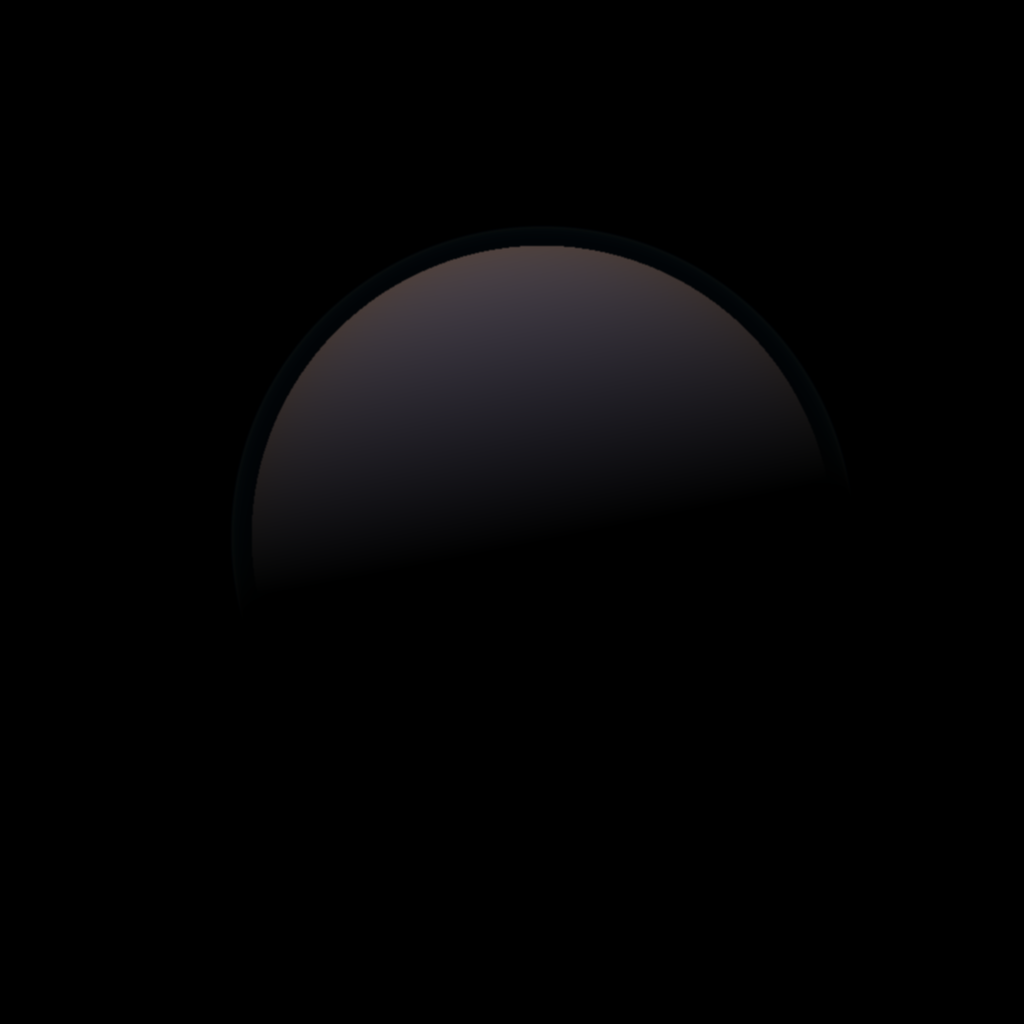
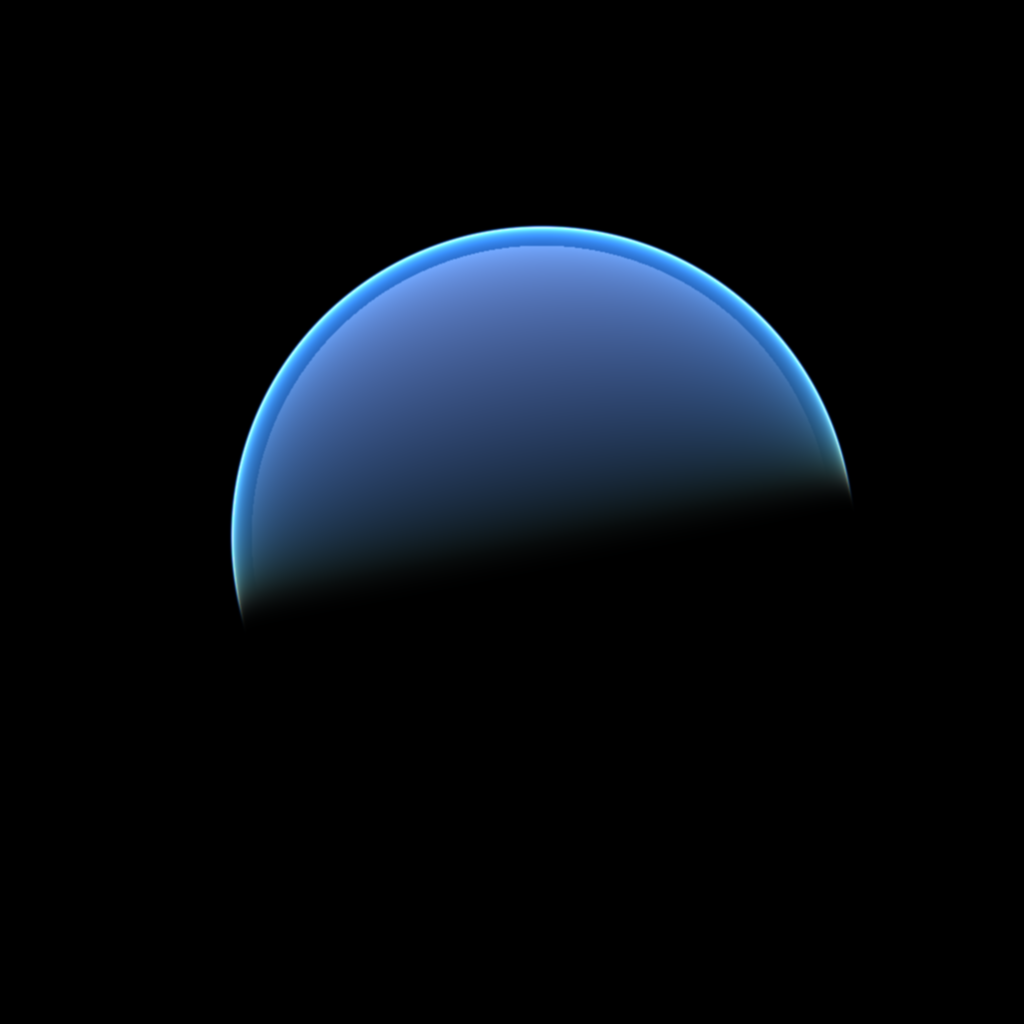
Add Mie scattering

Changed region(s): [[0.2188, 0.2188, 0.8438, 0.5938]]

diff --git a/atmos.py b/atmos.py
@@ -3,17 +3,18 @@ import math
 import numpy as np
 import taichi as ti
 from pathlib import Path
+
 vec3 = ti.math.vec3
 dot = ti.Vector.dot
 
-#region CONSTANTS
+# region CONSTANTS
 # feel free to change these (reasonable precision with citations might get you points!)
-VIEW_RAY_STEPS = 16
-SUN_RAY_STEPS = 4
+VIEW_RAY_STEPS = 128
+SUN_RAY_STEPS = 32
 
-EARTH_RADIUS_KM = 6000.0 # if you modify this make sure to update line 38 of demo.py
+EARTH_RADIUS_KM = 6000.0  # if you modify this make sure to update line 38 of demo.py
 
-# Source: WGS84
+# Source: WGS84 World Geodetic System Standard
 EARTH_EQUATORIAL_RADIUS_KM = 6378.137
 EARTH_POLAR_RADIUS_KM = 6356.752314245
 
@@ -22,17 +23,26 @@ EARTH_FLATTENING_FACTOR = (EARTH_EQUATORIAL_RADIUS_KM - EARTH_POLAR_RADIUS_KM) /
 # Source: NASA Earth Fact Sheet
 EARTH_SCALE_HEIGHT_KM = 8.5
 
-ATMOSPHERE_THICKNESS_KM = 110 # The true atmosphere extends quite far, so we choose a point where it visually seems to end
+ATMOSPHERE_THICKNESS_KM = 110  # The true atmosphere extends quite far, so we choose a point where it visually seems to end
 ATMOSPHERE_EQUATORIAL_RADIUS_KM = EARTH_EQUATORIAL_RADIUS_KM + ATMOSPHERE_THICKNESS_KM
 ATMOSPHERE_POLAR_RADIUS_KM = EARTH_POLAR_RADIUS_KM + ATMOSPHERE_THICKNESS_KM
 # ^ this atmosphere is actually very innacurate, but sometimes it's instructive to have it be big to see what's going on
 # be careful though, sometimes having a thick atmosphere leads to unintended consequences
 
 # Source: Precomputed Atmospheric Scattering - Eric Bruneton, Fabrice Neyret
-BETA_RAYLEIGH = vec3(3.8e-3, 13.5e-3, 33.1e-3)
-#endregion
+BETA_RAYLEIGH = vec3(5.8e-3, 13.5e-3, 33.1e-3)
+BETA_MIE_SCATTER = vec3(2.0e-3)
+BETA_MIE_EXTINCTION = BETA_MIE_SCATTER / 0.9
+MIE_SCALE_HEIGHT_KM = 1.2
+MIE_G = 0.8
 
-#region HELPER FUNCTIONS
+SUN_INTENSITY = vec3(1.474, 1.850, 1.912)
+# Scale up to simulate exposure
+SUN_INTENSITY = SUN_INTENSITY * 14.0
+
+# endregion
+
+# region HELPER FUNCTIONS
 
 # This function transforms the ray into a coordinate space where the z axis is scaled by width/height
 @ti.func
@@ -41,6 +51,7 @@ def _convert_ray_to_sphere_space(origin: vec3, direction: vec3, width: ti.f32, h
     sphere_origin = vec3(origin.x, origin.y, origin.z * w_over_h)
     sphere_dir = vec3(direction.x, direction.y, direction.z * w_over_h)
     return sphere_origin, sphere_dir.normalized()
+
 
 # This function transforms a point into a coordinate space where the z axis is scaled by height/width
 @ti.func
@@ -85,7 +96,7 @@ def cast_ray_against_oblate_spheroid(origin: vec3, direction: vec3, width: ti.f3
             collides_second = True
 
     return first_pos, collides_first, second_pos, collides_second
-#endregion
+# endregion
 
 # notice every function needs @ti.func so it can run in the kernel
 @ti.func
@@ -100,20 +111,40 @@ def funnyFunction(pos, ray, sun_dir):
         funGradient = (ray-vec3(0.5,0,0))*0.5+vec3(0.5,0.5,0.5)
     return funGradient
 
+@ti.func
+def earth_radius_at_direction(d):
+    a = EARTH_EQUATORIAL_RADIUS_KM
+    b = EARTH_POLAR_RADIUS_KM
 
+    return 1.0 / ti.sqrt(
+        (d.x * d.x + d.y * d.y) / (a * a)
+        + (d.z * d.z) / (b * b)
+    )
+
+# Algorithm based highly on Precomputed Atmospheric Scattering - Eric Bruneton, Fabrice Neyret
 @ti.func
 def _atmos(pos, ray, sun_dir):
     # Find rays intersections w/ atmosphere and Earth
-    p_atmos_1, hit_a1, p_atmos_2, hit_a2 = cast_ray_against_oblate_spheroid(pos, ray, ATMOSPHERE_EQUATORIAL_RADIUS_KM, ATMOSPHERE_POLAR_RADIUS_KM)
-    p_earth_1, hit_e1, p_earth_2, hit_e2 = cast_ray_against_oblate_spheroid(pos, ray, EARTH_EQUATORIAL_RADIUS_KM, EARTH_POLAR_RADIUS_KM)
+    p_atmos_1, hit_a1, p_atmos_2, hit_a2 = cast_ray_against_oblate_spheroid(pos, ray, ATMOSPHERE_EQUATORIAL_RADIUS_KM,
+                                                                            ATMOSPHERE_POLAR_RADIUS_KM)
+    p_earth_1, hit_e1, p_earth_2, hit_e2 = cast_ray_against_oblate_spheroid(pos, ray, EARTH_EQUATORIAL_RADIUS_KM,
+                                                                            EARTH_POLAR_RADIUS_KM)
 
-    total_color = vec3(0.0)
-
+    # Pre-Computed Atmospheric Scattering: Eq 2 - Rayleigh Phase Function
     cos_theta = ray.dot(sun_dir)
     phase_rayleigh = 3.0 / (16.0 * ti.math.pi) * (1.0 + cos_theta * cos_theta)
 
-    # Accumulates optical depth with each step along ray
-    view_optical_depth = 0.0
+    # Pre-Computed Atmospheric Scattering: Eq 4 - Cornette-Shanks Mie Phase Function
+    g2 = MIE_G * MIE_G
+    mie_num = 3.0 * (1.0 - g2) * (1.0 + cos_theta * cos_theta)
+    mie_den = 8.0 * ti.math.pi * (2.0 + g2) * ti.math.pow(1.0 + g2 - 2.0 * MIE_G * cos_theta, 1.5)
+    phase_mie = mie_num / mie_den
+
+    # Accumulates optical depth and color with each step along ray
+    view_optical_depth_rayleigh = 0.0
+    view_optical_depth_mie = 0.0
+
+    total_color = vec3(0.0)
 
     if hit_a1:
         start_pos = p_atmos_1
@@ -123,27 +154,26 @@ def _atmos(pos, ray, sun_dir):
         if hit_e1:
             end_pos = p_earth_1
 
-
         # Draw a vector from the start to the end
         segment = end_pos - start_pos
         ray_length = segment.norm()
         step_size = ray_length / VIEW_RAY_STEPS
-
-
 
         for i in range(VIEW_RAY_STEPS):
             # Use midpoint Riemann sum
             sample_pos = start_pos + ray * step_size * (float(i) + 0.5)
             sample_dir = sample_pos.normalized()
 
-            # Calculate altitude using oblate spheroid Earth model
-            local_earth_radius = EARTH_EQUATORIAL_RADIUS_KM * (1.0 - (sample_dir.z * sample_dir.z) * EARTH_FLATTENING_FACTOR)
-            altitude = sample_pos.norm() - local_earth_radius
-            altitude = ti.max(0.0, altitude)
+            # Aproximate altitude using oblate spheroid Earth model
+            local_earth_radius = earth_radius_at_direction(sample_dir)
+            altitude = ti.max(0.0, sample_pos.norm() - local_earth_radius)
 
             # Calculate density (Barometric Formula) and add to optical depth
-            local_density = ti.exp(-altitude / EARTH_SCALE_HEIGHT_KM)
-            view_optical_depth += local_density * step_size
+            local_density_rayleigh = ti.exp(-altitude / EARTH_SCALE_HEIGHT_KM)
+            local_density_mie = ti.exp(-altitude / MIE_SCALE_HEIGHT_KM)
+
+            view_optical_depth_rayleigh += local_density_rayleigh * step_size
+            view_optical_depth_mie += local_density_mie * step_size
 
             # Cast ray to find if sun is blocked by Earth
             _, sun_hit_e1, _, _ = cast_ray_against_oblate_spheroid(
@@ -159,7 +189,8 @@ def _atmos(pos, ray, sun_dir):
 
                 sun_ray_length = (p_sun_exit - sample_pos).norm()
                 sun_step_size = sun_ray_length / SUN_RAY_STEPS
-                sun_optical_depth = 0.0
+                sun_optical_depth_rayleigh = 0.0
+                sun_optical_depth_mie = 0.0
 
                 # March Sun Ray
                 for j in range(SUN_RAY_STEPS):
@@ -167,26 +198,33 @@ def _atmos(pos, ray, sun_dir):
                     sun_sample_dir = sun_sample_pos.normalized()
 
                     # Calculate altitude for the sun sample point
-                    sun_local_radius = EARTH_EQUATORIAL_RADIUS_KM * (
-                                1.0 - (sun_sample_dir.z * sun_sample_dir.z) * EARTH_FLATTENING_FACTOR)
-                    sun_altitude = ti.max(0.0, sun_sample_pos.norm() - sun_local_radius)
+                    sun_ray_local_radius = earth_radius_at_direction(sun_sample_dir)
+                    sun_altitude = ti.max(0.0, sun_sample_pos.norm() - sun_ray_local_radius)
 
-                    # Add to sun optical depth
-                    sun_local_density = ti.exp(-sun_altitude / EARTH_SCALE_HEIGHT_KM)
-                    sun_optical_depth += sun_local_density * sun_step_size
+                    sun_local_density_rayleigh = ti.exp(-sun_altitude / EARTH_SCALE_HEIGHT_KM)
+                    sun_local_density_mie = ti.exp(-sun_altitude / MIE_SCALE_HEIGHT_KM)
 
+                    sun_optical_depth_rayleigh += sun_local_density_rayleigh * sun_step_size
+                    sun_optical_depth_mie += sun_local_density_mie * sun_step_size
 
-                combined_view_depth = view_optical_depth + sun_optical_depth
+                combined_view_depth_rayleigh = view_optical_depth_rayleigh + sun_optical_depth_rayleigh
+                combined_view_depth_mie = view_optical_depth_mie + sun_optical_depth_mie
 
-                transmittance = ti.exp(-combined_view_depth * BETA_RAYLEIGH)
+                transmittance = ti.exp(
+                    -(combined_view_depth_rayleigh * BETA_RAYLEIGH + combined_view_depth_mie * BETA_MIE_EXTINCTION))
 
                 # Calculate the final light added at this specific sample point
-                scattered_light = local_density * step_size * transmittance * BETA_RAYLEIGH * phase_rayleigh
+                scattered_light = transmittance * step_size * (
+                        BETA_RAYLEIGH * phase_rayleigh * local_density_rayleigh +
+                        BETA_MIE_SCATTER * phase_mie * local_density_mie
+                )
 
                 total_color += scattered_light
 
-    final_transmittance = ti.exp(-view_optical_depth * BETA_RAYLEIGH)
-    return total_color, final_transmittance, vec3(0.0)
+    final_transmittance = ti.exp(
+        -(view_optical_depth_rayleigh * BETA_RAYLEIGH + view_optical_depth_mie * BETA_MIE_EXTINCTION))
+    return total_color * SUN_INTENSITY, final_transmittance, vec3(0.0)
+
 
 # Used by demo.py
 # This earth function is very simple, it renders a blueish-grey ball
@@ -197,10 +235,10 @@ def _atmos(pos, ray, sun_dir):
 @ti.func
 def _earth(pos, direction, sun_dir):
     surface_km, hit, _, _ = cast_ray_against_oblate_spheroid(pos, direction, EARTH_RADIUS_KM, EARTH_RADIUS_KM)
-    color = vec3(0,0,0)
+    color = vec3(0, 0, 0)
     if hit:
         surface_dir = surface_km.normalized()
-        ndotl = max(surface_dir.dot(sun_dir),0)
+        ndotl = max(surface_dir.dot(sun_dir), 0)
         if ndotl >= 0.0:
-            color = vec3(0.7,0.7,1)*ndotl*0.5
+            color = vec3(0.7, 0.7, 1) * ndotl * 0.5
     return color
